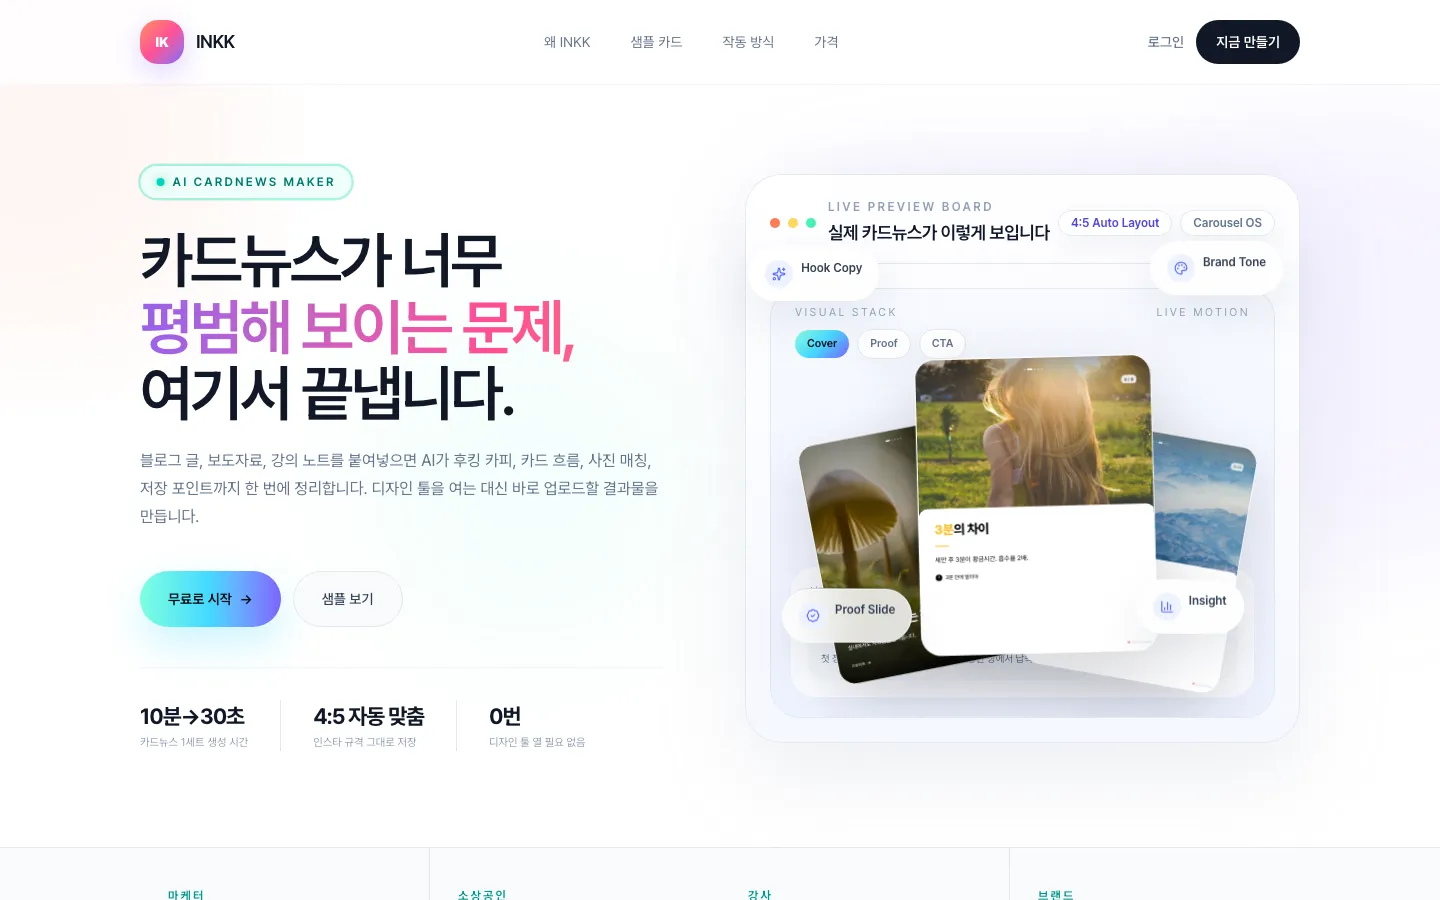
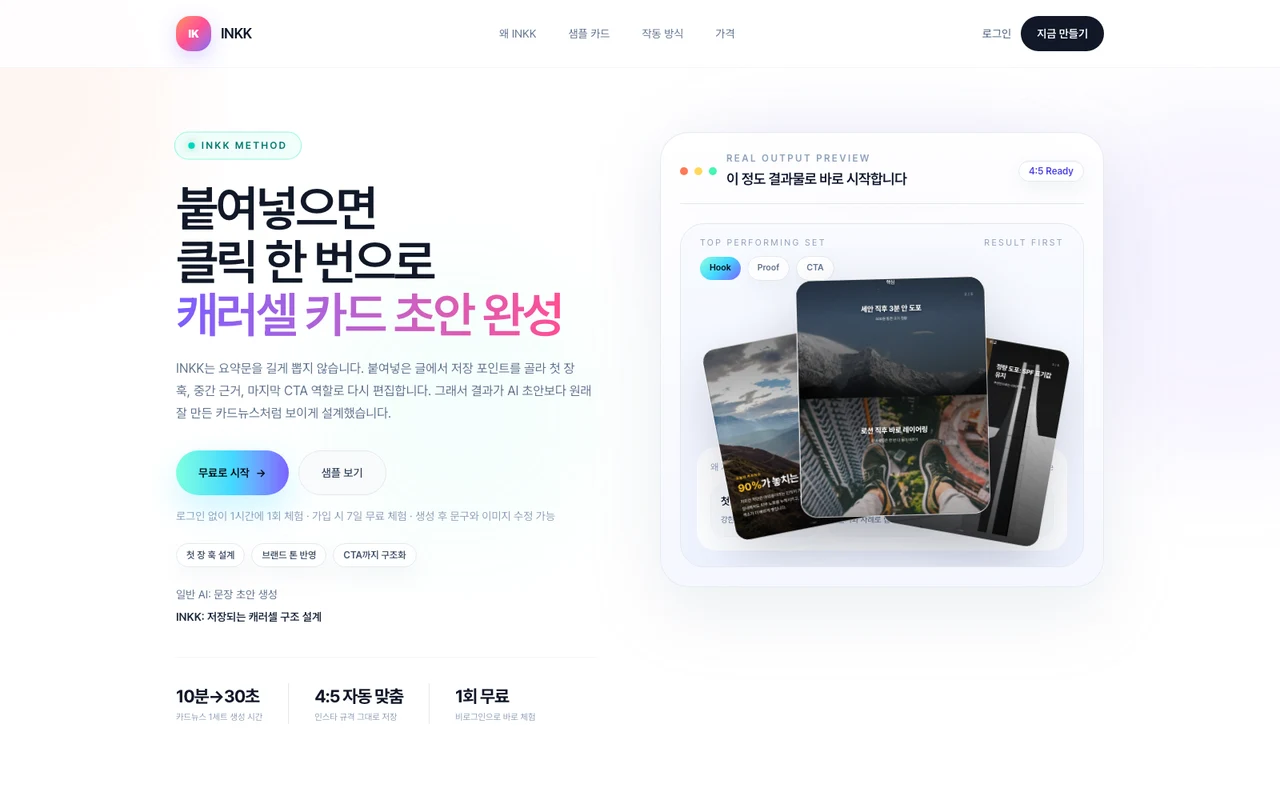
ui(INKK): Hero/PROBLEM 재구성 + inkk.online 실 캡쳐로 교체
[Hero pmeta 정리]
- 역할 → '개인 프로젝트', 기간 → '2026.05 — 개발 중'
- 링크 칸(URL 중복) 제거 → '상태: 베타 운영 (inkk.online)'

[핵심 기술 2 → 4 / pmeta 위로 이동]
- 01 품질 강제 4층 엔진
- 02 레이아웃 자동 조정 엔진 (텍스트 길이 측정 → 폰트·행간·레이아웃 자동 조정)
- 03 크레딧 동시성 · 결제 멱등성 (SELECT FOR UPDATE + Stripe claim RPC)
- 04 LLM 프로바이더 추상화 (Groq ↔ Claude 런타임 전환)

[PROBLEM 논거 재작성 + 압축]
'AI 시각적 지문' 논거 약함 → '결과물은 나오는데 일관성 들쭉날쭉, 잡으려면 디자인 지식 필요'
카드 3 → 2, 가설 메시지 명확화

[이미지 교체]
inkk/thumb.webp · inkk/landing.webp — inkk.online 1600px 헤드리스 캡처

diff --git a/INKK.html b/INKK.html
@@ -182,16 +182,18 @@
       <div class="shot"><img src="inkk/thumb.webp" alt="INKK 서비스 화면"/></div>
     </div>
 
-    <div class="pmeta">
-      <div class="m"><div class="k">역할</div><div class="v">개인 서비스 · 기획·풀스택·디자인 전부</div></div>
-      <div class="m"><div class="k">기간</div><div class="v">2026.05 — 운영 중 (얼리 액세스)</div></div>
-      <div class="m"><div class="k">스택</div><div class="v">Next.js 16 · Supabase · Stripe · Groq/Claude</div></div>
-      <div class="m"><div class="k">링크</div><div class="v">inkk.online</div></div>
+    <div class="thi">
+      <div class="c"><div class="k">핵심 기술 01</div><h3>품질 강제 4층 엔진</h3><p>장별 역할 분리 프롬프트 + GOOD/BAD 반례 + 구조 제약(길이·강조·줄바꿈) + 후처리 sanitize. 프롬프트 한 방에 맡기지 않고 4단계로 품질을 강제.</p></div>
+      <div class="c"><div class="k">핵심 기술 02</div><h3>레이아웃 자동 조정 엔진</h3><p>텍스트 길이를 측정해 폰트(30자 48px → 120자 22px) · 행간 · 레이아웃 타입을 자동 조정. LLM 출력 길이 편차와 무관하게 카드 비율이 항상 균형.</p></div>
+      <div class="c"><div class="k">핵심 기술 03</div><h3>크레딧 동시성 · 결제 멱등성</h3><p>크레딧 차감을 <code>SELECT FOR UPDATE</code> 트랜잭션으로 원자화 + Stripe webhook을 <code>claim_stripe_event</code> RPC로 멱등 처리. 동시 요청·재시도에 잔액이 깨지지 않음.</p></div>
+      <div class="c"><div class="k">핵심 기술 04</div><h3>LLM 프로바이더 추상화</h3><p>Groq(빠름·저렴)을 기본으로, 고품질이 필요할 땐 Claude로 런타임 전환. 비용·품질 레버를 코드가 아닌 환경 설정에 두어 운영 중 교체 가능.</p></div>
     </div>
 
-    <div class="thi">
-      <div class="c"><div class="k">핵심 기술 01</div><h3>'AI 티'를 지우는 품질 4층 강제</h3><p>카드별 역할 분리 프롬프트 + GOOD/BAD 반례 + 구조 제약 + 레이아웃 엔진·후처리. 디자인 기술 없이도 'AI 지문 없는' 발행 카드를 강제한다.</p></div>
-      <div class="c"><div class="k">핵심 기술 02</div><h3>돈이 걸린 동시성·멱등성</h3><p>크레딧 차감을 <code>SELECT FOR UPDATE</code>로 원자화하고 Stripe webhook을 멱등 처리해, 동시 요청·재시도에도 잔액이 깨지지 않는다.</p></div>
+    <div class="pmeta">
+      <div class="m"><div class="k">역할</div><div class="v">개인 프로젝트</div></div>
+      <div class="m"><div class="k">기간</div><div class="v">2026.05 — 개발 중</div></div>
+      <div class="m"><div class="k">스택</div><div class="v">Next.js 16 · Supabase · Stripe · Groq · Claude</div></div>
+      <div class="m"><div class="k">상태</div><div class="v">베타 운영 (inkk.online)</div></div>
     </div>
   </div>
 </section>
@@ -201,29 +203,24 @@
   <div class="wrap">
     <div class="col">
       <p class="eyebrow">01 — 문제</p>
-      <h2 class="h2">"ChatGPT로 하면 되잖아"가 안 되는 이유.</h2>
-      <p class="prose sec-foot">텍스트 초안은 챗봇으로도 뽑힌다. 그런데 그걸 그대로 올리면 티가 난다. 카드뉴스를 못 만드는 진짜 이유는 디자인 감각이 아니라, 세 군데서 막히기 때문이다.</p>
+      <h2 class="h2">결과물은 나온다. <span class="accent-word">"내가 원하는 톤"은 안 나온다.</span></h2>
+      <p class="prose sec-foot">ChatGPT도 이제 캐러셀 카드뉴스를 만든다. 하지만 폰트·여백·강조·흐름이 일관되게 잡힌 <strong>"발행 가능한 결과"</strong>를 받으려면 결국 디자인 지식이 필요하다.</p>
     </div>
     <div class="three sec-foot">
       <div class="pcard">
         <div class="pn">PROBLEM 01</div>
-        <h3>AI마다 '시각적 지문' 존재</h3>
-        <p>생성 AI는 저마다 디자인 버릇이 있다. 결과물을 보면 어떤 도구로 만들었는지 보일 정도다. 팔로워는 그 지문을 알아채고 "성의 없이 돌렸구나"라고 느낀다.</p>
+        <h3>결과의 일관성이 들쭉날쭉</h3>
+        <p>같은 주제라도 매번 톤·구성이 달라진다. 만족스러운 결과가 나올 때까지 다시 돌리거나, 손으로 다듬어야 한다.</p>
       </div>
       <div class="pcard">
         <div class="pn">PROBLEM 02</div>
-        <h3>지문을 지우려면 결국 디자인 기술</h3>
-        <p>디자인을 아는 사람은 AI 결과를 손으로 다듬어 지문을 지운다. 보통 사람은 거기까지 못 해서, 뱉은 그대로 올릴 수밖에 없다.</p>
-      </div>
-      <div class="pcard">
-        <div class="pn">PROBLEM 03</div>
-        <h3>텍스트가 나와도 '발행물'은 아님</h3>
-        <p>챗봇은 글·이미지 조각까지만 준다. 5~10장 흐름으로 쪼개고 이미지를 붙여 인스타 규격으로 맞추는 일은 여전히 사용자 몫이다.</p>
+        <h3>일관성을 잡으려면 디자인 지식 필요</h3>
+        <p>폰트 크기·강조 키워드·줄바꿈·카드 간 흐름 — 결국 디자인을 아는 사람만 "발행 가능한" 결과까지 끌어올린다.</p>
       </div>
     </div>
     <div class="thesis">
       <div class="tl">INKK의 가설</div>
-      <p>진짜 장벽은 디자인 자체가 아니라 <strong>'AI 티를 지울 디자인 기술이 없는 것'</strong>이다. 그 작업을 서비스 안에 내장하면, 디자인을 몰라도 처음부터 지문 없는 완성 카드를 받는다.</p>
+      <p>일반 사용자가 막히는 지점은 "AI가 못 만들어서"가 아니라 <strong>일관성을 잡는 디자인 기술이 없어서</strong>다. 그 기술을 <strong>서비스 안에 내장</strong>하면, 누가 써도 발행 가능한 결과가 처음부터 나온다.</p>
     </div>
   </div>
 </section>
